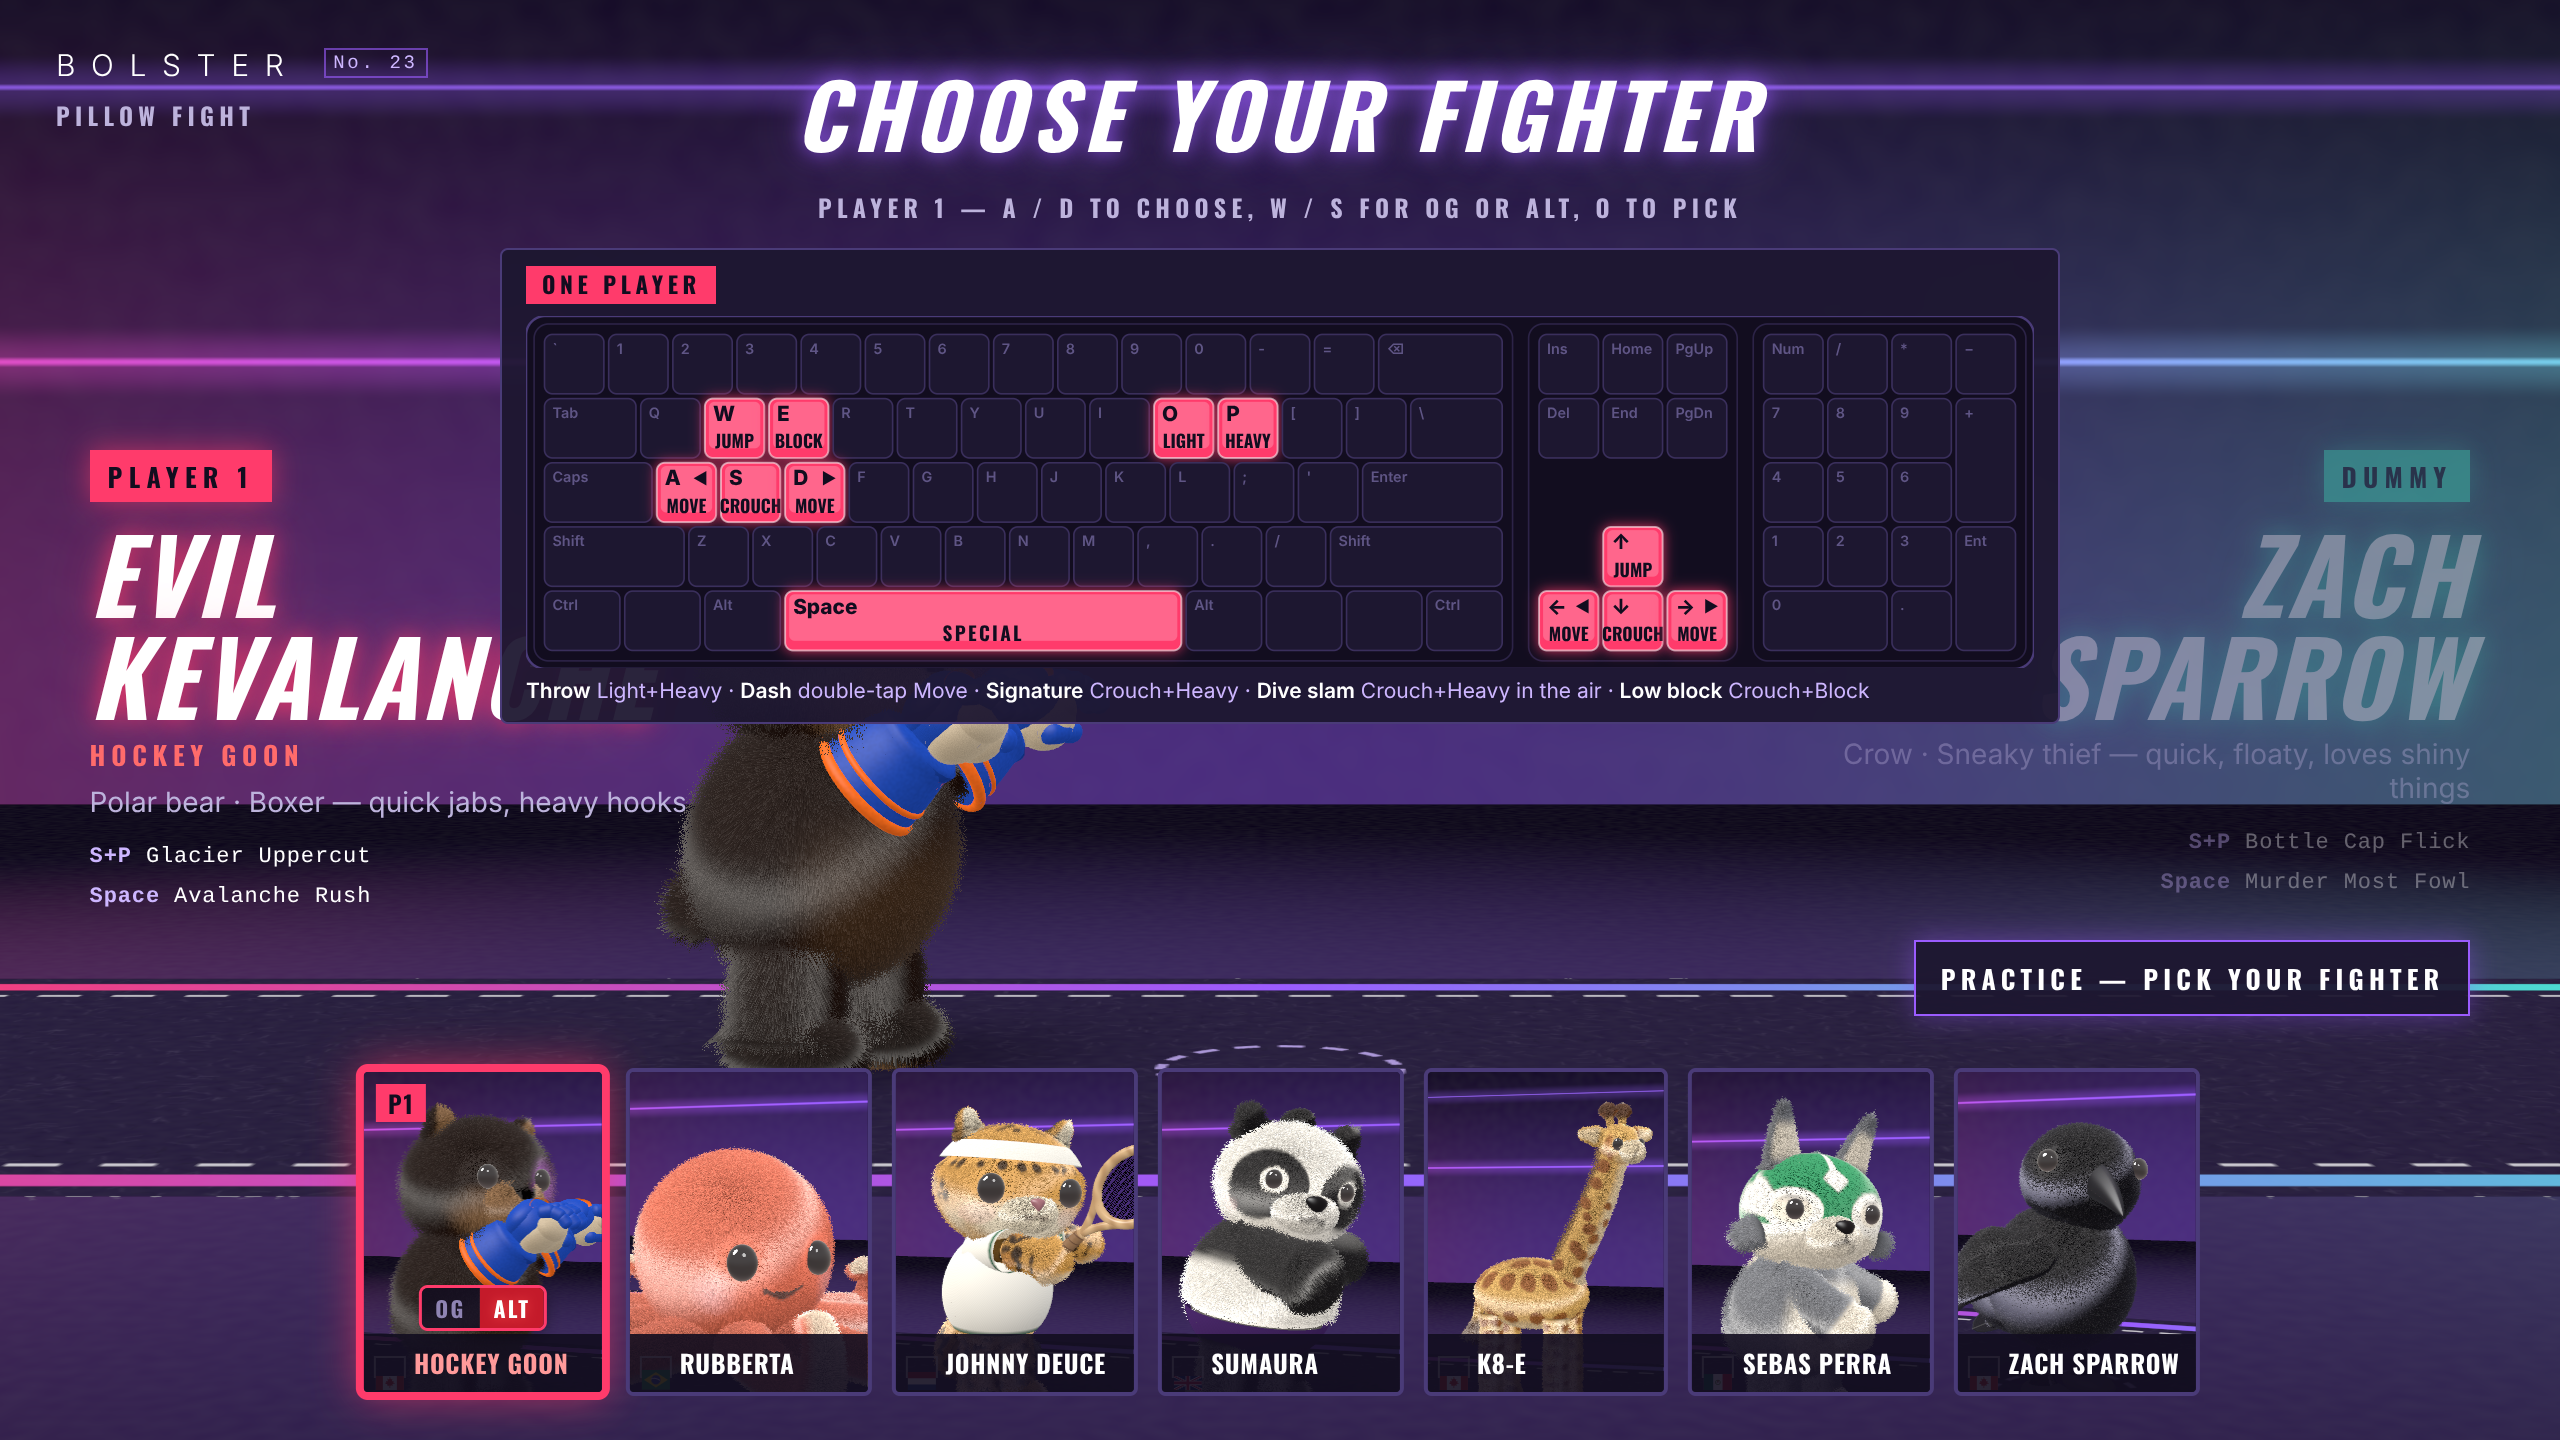
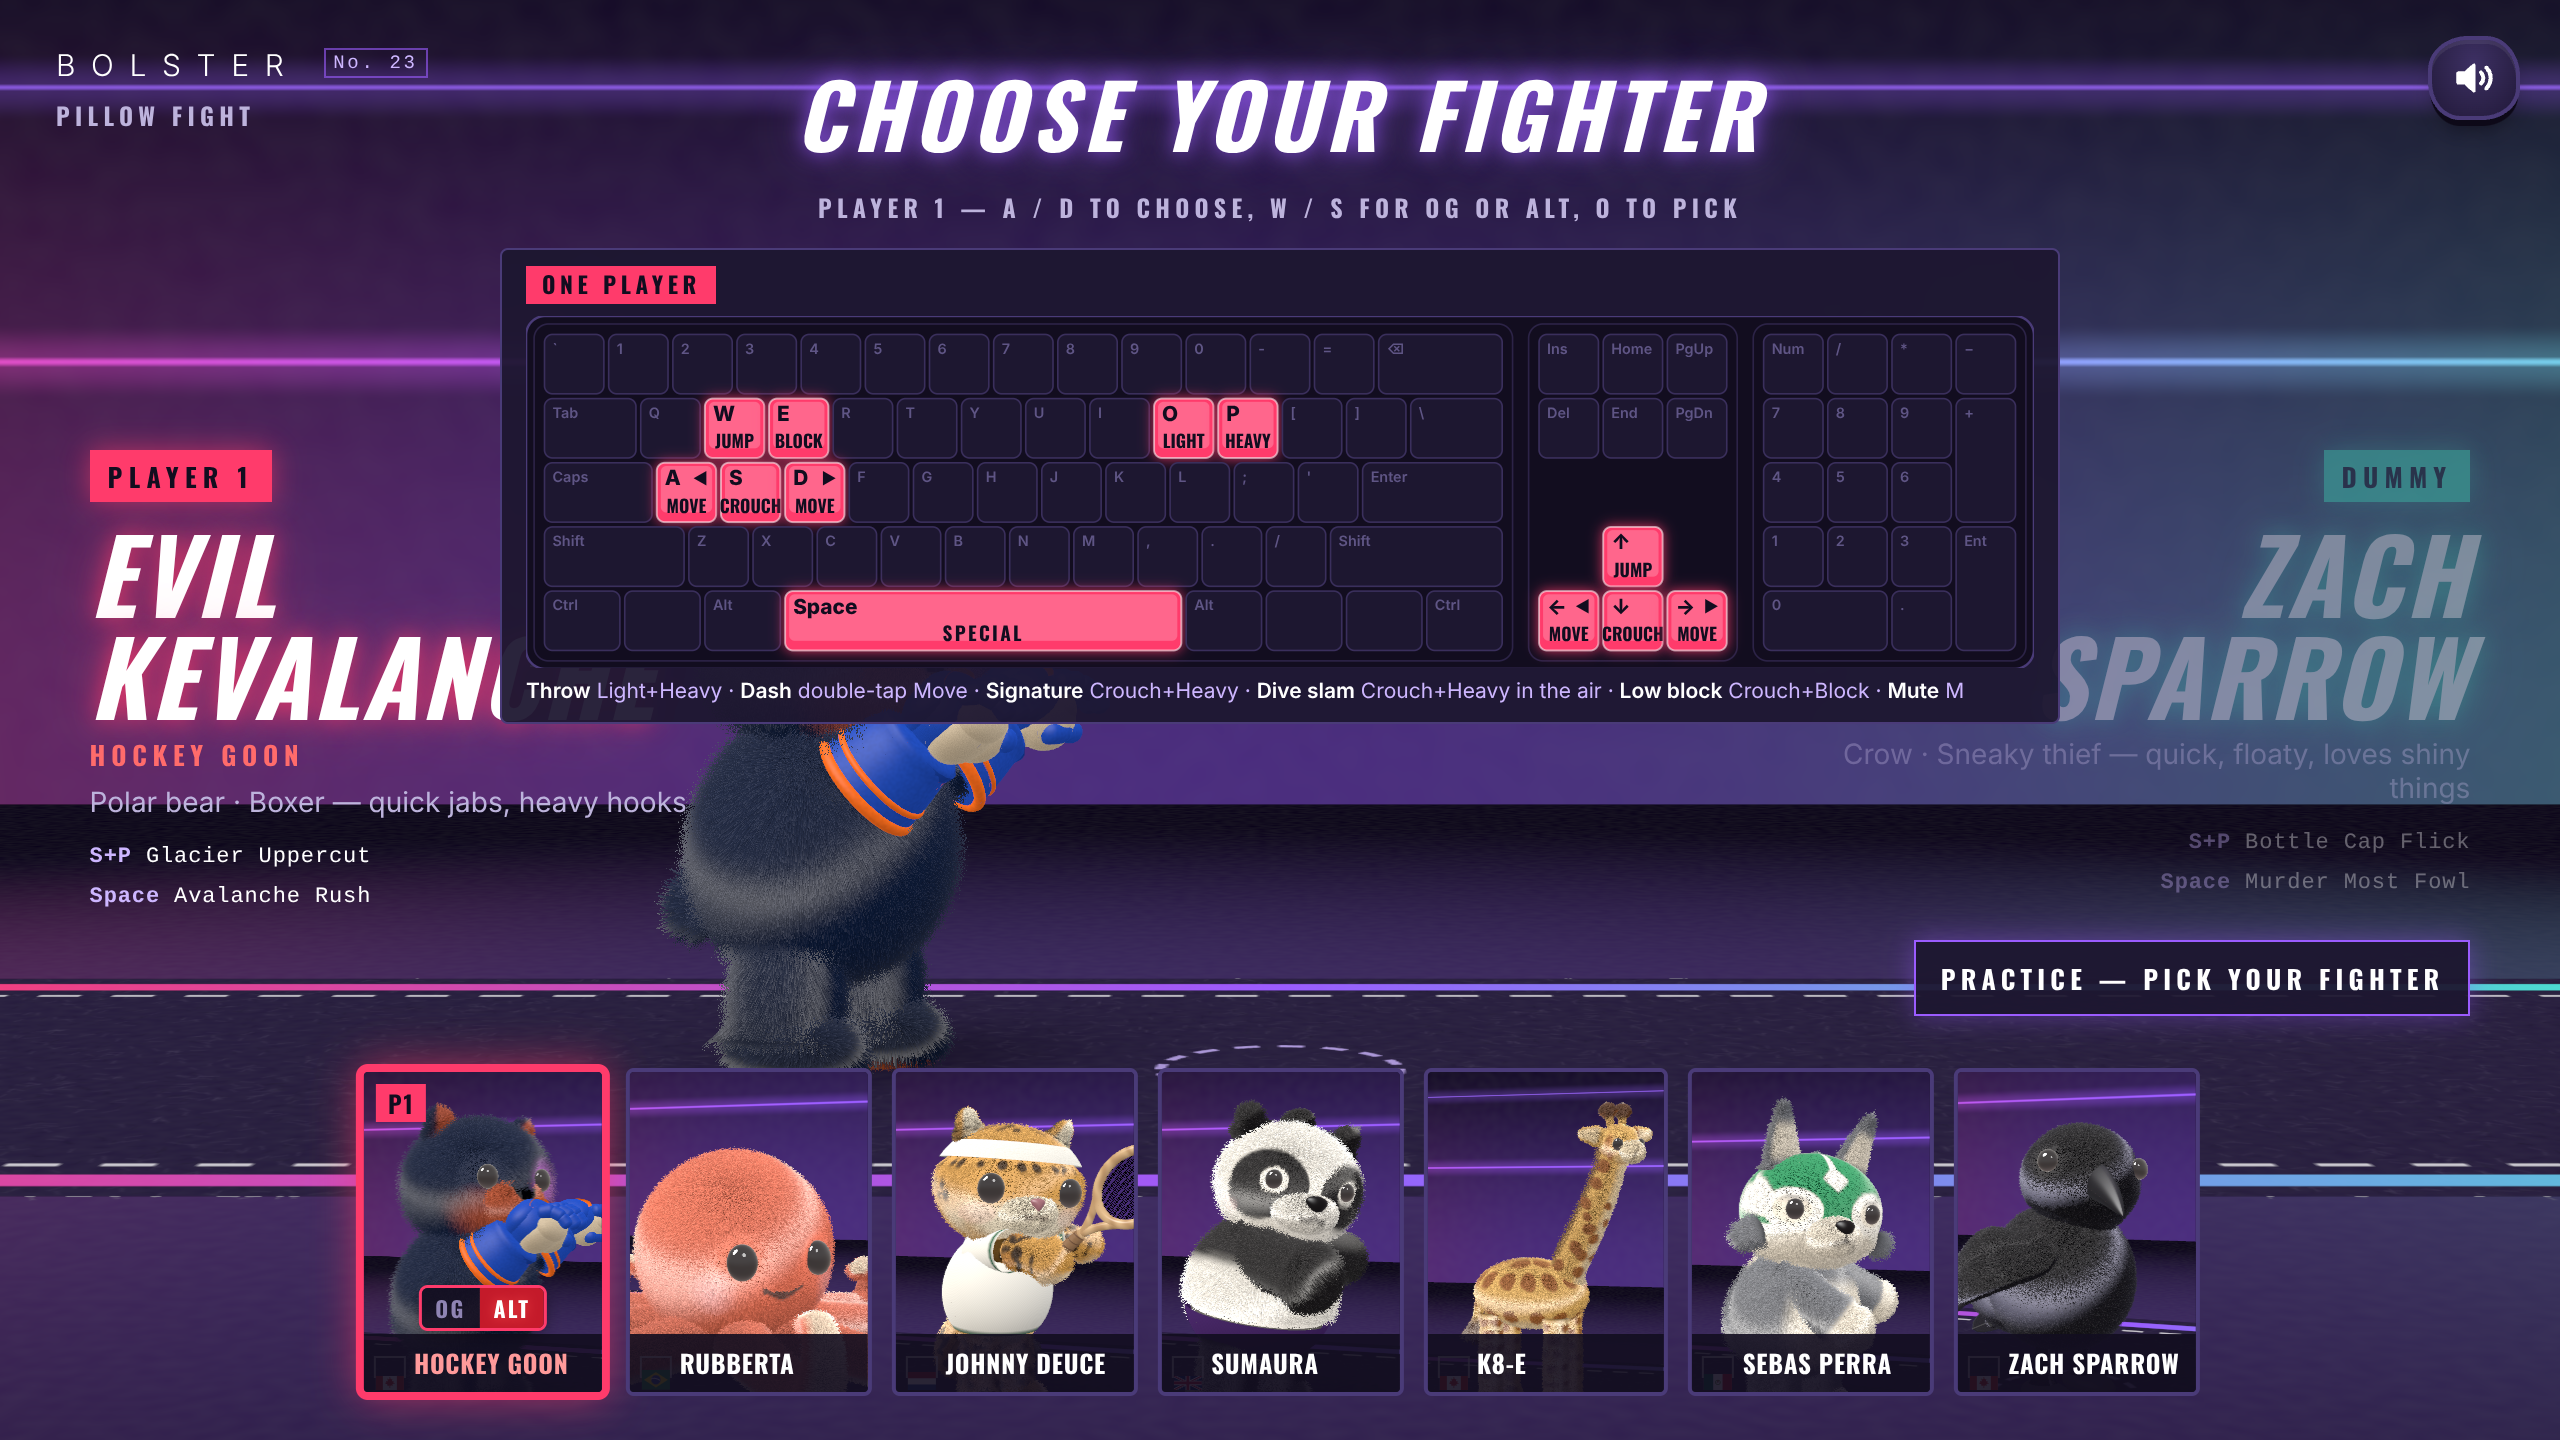
Bolster fixes: README (Edmonton recolour), select grid / cards evidence with the navy goon
Claude-Session: https://claude.ai/code/session_01Sb4eMWDZagWTEgDanR7X6r

Changed region(s): [[0.25, 0.5, 0.375, 0.75], [0.1562, 0.75, 0.2188, 0.9062], [0.9375, 0.0312, 1.0, 0.0938]]

diff --git a/bolster/_source/README.md b/bolster/_source/README.md
@@ -83,8 +83,15 @@ the WebGL 2 path; `hold` stops the free-running loop for scripted stepping;
 - **Kevalanche ALT, no mullet:** the locks, their springs and their shader
   are gone (`Mullet`, `lockMat`, `tools/goon-probe.mjs`), and so is the
   haircut in the pile (the cropped top and sides, the long nape): his head
-  is his OG's shape and short fur, in the black bear's near-black with the
-  tan muzzle. The black eye and the felt tooth stay.
+  is his OG's shape and short fur. The black eye and the felt tooth stay.
+- **Kevalanche ALT in Edmonton colours** (`KEV.colors` in
+  `render/twins.js`): the fur a navy so deep it reads almost black
+  (`#0f1f40`, accent `#0b1a33`; blue enough to keep its shading and pile
+  depth under the lights), the ear insides and muzzle a slightly muted felt
+  orange (`#e2692c`), the nose dark (`#0b0d14`), the chest and belly navy
+  (no underside hint). The bruise is a lighter plum (`#9a5aa6`) so the black
+  eye reads on navy; the felt tooth stays cream. Colours only, no logos.
+  Evidence: `shots/fixes/goon/navy/` (before: `navy-before/`).
 - **Kevalanche ALT, hockey gloves rebuilt** (`makeHockeyGlove` in
   `render/gloves.js`): four separate fingers, each three padded rolls
   (sausages with a crease between, the little finger smaller) on little
@@ -188,7 +195,7 @@ Kevalanche's ALT only (his OG, every other fighter and the feel pass's
 animation are untouched). Render only: no sim, frame data, hit box, netcode
 or balance change; the golden hashes in `test/feel.test.mjs` still match.
 
-- **A black bear** (`render/twins.js`, `KEV.colors`): near-black brown fur
+- **A black bear** (superseded by the Edmonton recolour above; `render/twins.js`, `KEV.colors`): near-black brown fur
   (`#20100a`, warm enough to keep its shading and depth under the lights),
   a tan muzzle like a real black bear's, the chest and belly dark too (a
   hint of the old underside left). The fur's white strand highlights greyed
